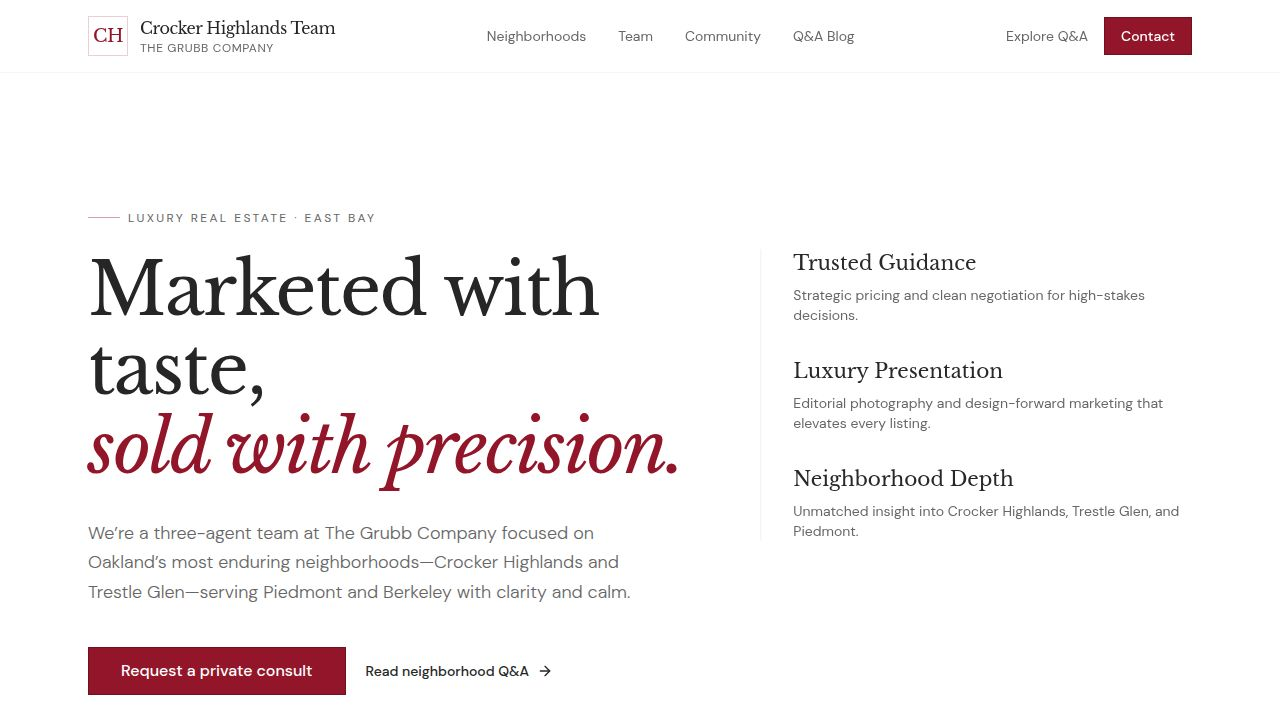
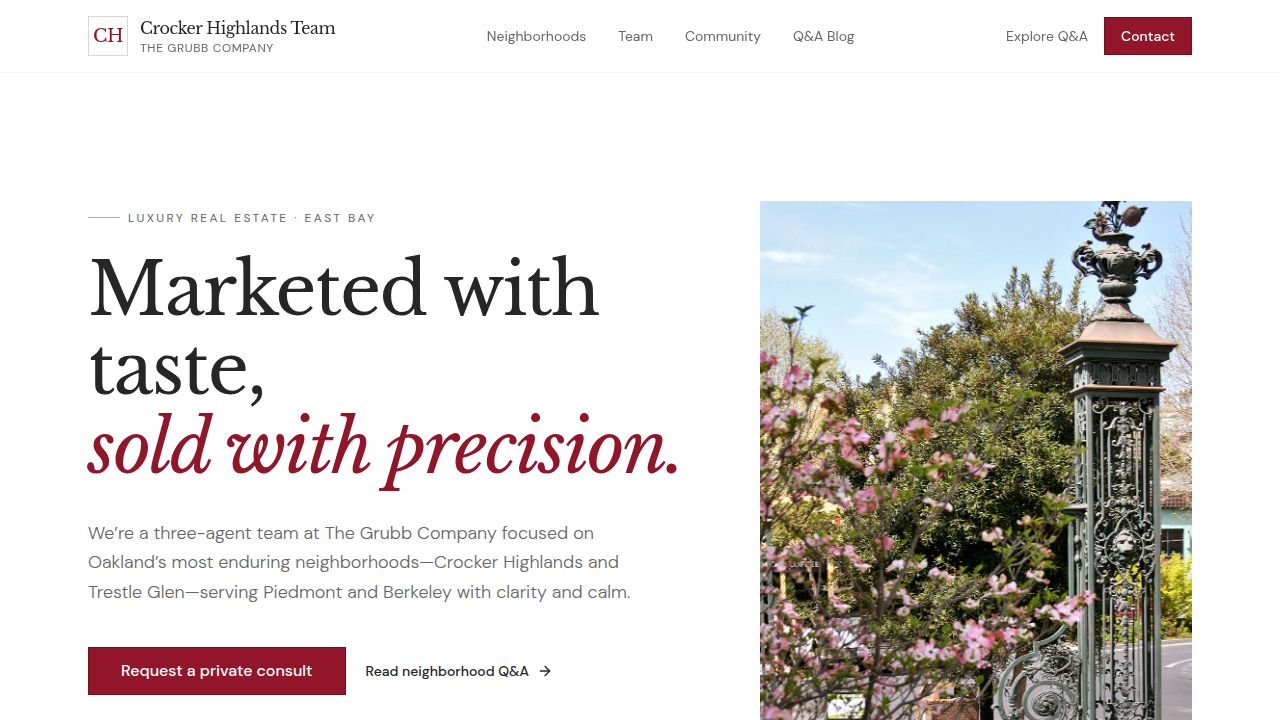
Add a hero image to the top of the homepage
Replaces the existing text-based hero section in `client/src/pages/home.tsx` with an image of the Crocker Highlands gate.

Replit-Commit-Author: Agent
Replit-Commit-Session-Id: 1aaa3446-266c-4e90-b322-066459adb6b6
Replit-Commit-Checkpoint-Type: full_checkpoint
Replit-Commit-Event-Id: b9ff1676-6bcf-4d23-a41c-bdf134b20154
Replit-Commit-Screenshot-Url: https://storage.googleapis.com/screenshot-production-us-central1/7eabc765-81a7-4c4c-8de8-f4eca0690c2e/1aaa3446-266c-4e90-b322-066459adb6b6/7YR1ElK
Replit-Helium-Checkpoint-Created: true

Changed region(s): [[0.5938, 0.275, 0.9375, 1.0]]

diff --git a/client/src/pages/home.tsx b/client/src/pages/home.tsx
@@ -198,21 +198,15 @@ export default function Home() {
               initial={{ opacity: 0, x: 20 }}
               animate={{ opacity: 1, x: 0 }}
               transition={{ duration: 0.8, delay: 0.2, ease: [0.22, 1, 0.36, 1] }}
-              className="md:col-span-5 md:pt-12"
+              className="md:col-span-5 relative"
             >
-              <div className="space-y-8 border-l border-primary/10 pl-8">
-                <div>
-                   <div className="font-serif text-xl mb-2 text-foreground">Trusted Guidance</div>
-                   <p className="text-sm text-muted-foreground">Strategic pricing and clean negotiation for high-stakes decisions.</p>
-                </div>
-                <div>
-                   <div className="font-serif text-xl mb-2 text-foreground">Luxury Presentation</div>
-                   <p className="text-sm text-muted-foreground">Editorial photography and design-forward marketing that elevates every listing.</p>
-                </div>
-                <div>
-                   <div className="font-serif text-xl mb-2 text-foreground">Neighborhood Depth</div>
-                   <p className="text-sm text-muted-foreground">Unmatched insight into Crocker Highlands, Trestle Glen, and Piedmont.</p>
-                </div>
+              <div className="relative aspect-[3/4] w-full overflow-hidden bg-muted">
+                <img
+                  src="/images/hero-gate.jpg"
+                  alt="Crocker Highlands Gate"
+                  className="h-full w-full object-cover"
+                  loading="eager"
+                />
               </div>
             </motion.div>
           </div>
